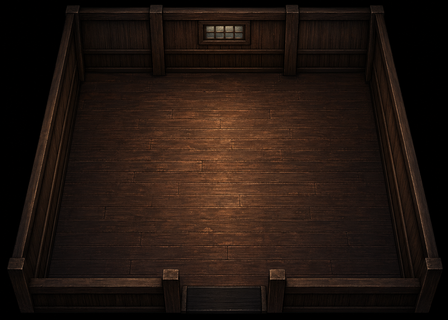
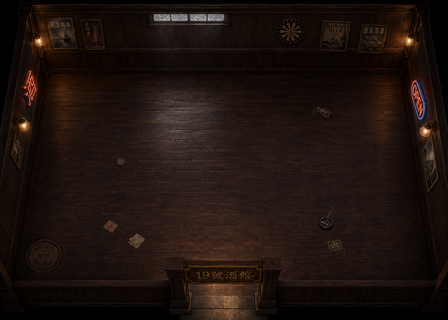
fix(pub): apply new prop/base rule, prop count 14→5 [prompt:036]
Same redo as 033/034/035 applied to pub (19號酒館).

Prop changes:
- 5 large: bar-counter (with bottle rack + taps + glasses), pool-table
  (with balls + cues), jukebox, booth-seat, piano
- Removed: barstool, bottle, glass, ashtray, dartboard, neon-sign,
  whiskey-barrel, coaster, napkin (now in base)

Base contains: '19號酒館' carved sign, dartboard mounted on wall,
'OPEN'/'酒' neon, framed wall photos / pin-ups, scattered floor items,
ashtray, walkable whiskey barrel side-table.

Verified: 5 props residue=0, spawn (7,8)+trigger (7,9) walkable,
typecheck+build pass. Visual reads as a real dim 90s Taiwanese pub.

diff --git a/JOURNAL.md b/JOURNAL.md
@@ -28,6 +28,73 @@
 - **Decisions made**:(若有 deviation,列出 — 由 Claude review 是否認可)
 ```
 
+## 2026-05-01 10:31 — codex-prompt 036 pub-redo-v3
+
+- **STATUS**: ready-for-commit
+- **Commits**: pending Claude
+- **Files changed**:
+  - ~ public/maps/pub-base.png
+  - ~ public/maps/pub-dressed-reference.png
+  - ~ public/maps/pub-layered-preview.png
+  - ~ public/props/pub/bar-counter.png
+  - ~ public/props/pub/pool-table.png
+  - ~ public/props/pub/jukebox.png
+  - ~ public/props/pub/booth-seat.png
+  - ~ public/props/pub/piano.png
+  - - public/props/pub/barstool.png
+  - - public/props/pub/bottle.png
+  - - public/props/pub/glass.png
+  - - public/props/pub/ashtray.png
+  - - public/props/pub/dartboard.png
+  - - public/props/pub/neon-sign.png
+  - - public/props/pub/whiskey-barrel.png
+  - - public/props/pub/coaster.png
+  - - public/props/pub/napkin.png
+  - ~ src/content/maps/pub.json
+  - ~ codex-prompts/036-pub-redo-v3.md
+  - ~ JOURNAL.md
+- **Self-check**:
+  - typecheck: n/a (sandbox; `pnpm typecheck && pnpm build` hit corepack EPERM on `/Users/hubert/.cache/node/corepack/lastKnownGood.json`)
+  - lint: n/a (not requested)
+  - dev server boot: n/a (not requested)
+  - build: n/a (sandbox; same corepack EPERM)
+  - json parse: pass (`python3 -m json.tool src/content/maps/pub.json`)
+  - image assertions: pass (Pillow size/mode, prop residue, edge alpha, deletion list, preview composition, collision, walkability)
+- **Verified output**:
+  1. Step 1 base map:
+     - `public/maps/pub-base.png`: Pillow size `(448, 320)`, mode `RGB`.
+     - view_image: clean HD top-down dim pub shell with dark wood walls and plank floor, bottom entry sign reading `19號酒館`, top-wall high windows, wall dartboard, wall neon signs, framed photos/posters, flat scattered floor items including small papers/coasters, a fallen glass/ashtray-like item, and a low round whiskey barrel marking at lower-left. The bar, pool table, jukebox, booth, and piano zones are empty floor with no large furniture baked in.
+     - Pillow bottom-door scan found bright doorway/sign bbox `x=189..261`, center `225.0px`; using `door_col=7` for trigger and player spawn.
+  2. Step 2 dressed reference:
+     - `public/maps/pub-dressed-reference.png`: Pillow size `(448, 320)`, mode `RGB`.
+     - view_image placement matrix:
+       - bar-counter: upper wall, around `(col 2,row 1)`, long polished bar with bottle rack, taps, and small glasses.
+       - pool-table: center, around `(col 5,row 4)`, green felt table with billiard balls and cues.
+       - jukebox: right wall, around `(col 12,row 5)`, bright arched neon jukebox.
+       - booth-seat: bottom-left, around `(col 1,row 7)`, red leather booth with cushions.
+       - piano: right/bottom-right, around `(col 11,row 7)`, small upright wooden piano with keyboard.
+  3. Steps 3 and 5 prop generation and residue:
+     - `bar-counter.png`: Pillow size `(96, 64)`, content bbox `(3, 12, 93, 51)`, magenta residue `1`, opaque edge pixels `0`; view_image contact sheet shows a dark polished bar with integrated bottle rack, taps, and glasses.
+     - `pool-table.png`: Pillow size `(64, 64)`, content bbox `(3, 14, 61, 49)`, magenta residue `0`, opaque edge pixels `0`; view_image contact sheet shows a green pool table with balls and a cue-like diagonal detail.
+     - `jukebox.png`: Pillow size `(32, 64)`, content bbox `(3, 6, 29, 57)`, magenta residue `0`, opaque edge pixels `0`; view_image contact sheet shows a tall orange/red neon jukebox with arched body.
+     - `booth-seat.png`: Pillow size `(64, 48)`, content bbox `(10, 3, 54, 45)`, magenta residue `2`, opaque edge pixels `0`; view_image contact sheet shows a red leather L-shaped booth seat with integrated cushions.
+     - `piano.png`: Pillow size `(64, 48)`, content bbox `(8, 3, 56, 45)`, magenta residue `1`, opaque edge pixels `0`; view_image contact sheet shows a small wooden upright piano with visible keyboard.
+  4. Step 4 deletion:
+     - `find public/props/pub -maxdepth 1 -type f -name '*.png'` now returns exactly `bar-counter.png`, `booth-seat.png`, `jukebox.png`, `piano.png`, `pool-table.png`.
+     - Explicit absence check passed for `barstool`, `bottle`, `glass`, `ashtray`, `dartboard`, `neon-sign`, `whiskey-barrel`, `coaster`, and `napkin`.
+  5. Step 6 `pub.json`:
+     - `python3 -m json.tool src/content/maps/pub.json` passed.
+     - Parsed key fields: `id=pub`, `baseUrl=/maps/pub-base.png`, props `['bar-counter', 'pool-table', 'jukebox', 'booth-seat', 'piano']`.
+     - Collision matrix is `10` rows x `14` columns. Spawn `(7,8)` and trigger `(7,9)` are both walkable; BFS path from spawn to trigger is `true`.
+  6. Step 7 preview:
+     - `public/maps/pub-layered-preview.png`: Pillow size `(448, 320)`, mode `RGBA`.
+     - view_image: runtime preview reads as a dim Taiwanese pub with the five runtime props over the base: bar at upper-left/top, pool table center, jukebox on right wall, red booth bottom-left, and piano bottom-right. Wall decorations, entry sign, scattered floor items, and barrel remain baked into the base.
+  7. Step 8 typecheck/build:
+     - `pnpm typecheck && pnpm build` did not run to completion because sandbox blocked corepack cache write with `EPERM: operation not permitted, open '/Users/hubert/.cache/node/corepack/lastKnownGood.json'`; deferred to Claude per AGENTS.md.
+- **Notes**: Completed pub redo v3 with only 5 large props; removed 9 old small prop PNGs; composed preview from the updated JSON. Did not modify office/orphanage/obo/set, portraits, or sprites.
+- **BLOCKER**: none
+- **Decisions made**: Used `door_col=7` from the measured bottom entry. Used a 96x64 visual canvas for `bar-counter` so the integrated bottle rack can extend behind the 3x1 collision footprint.
+
 ## 2026-05-01 10:14 — codex-prompt 035 obo-redo-v3
 
 - **STATUS**: ready-for-commit

diff --git a/codex-prompts/036-pub-redo-v3.md b/codex-prompts/036-pub-redo-v3.md
@@ -1,0 +1,135 @@
+# Codex Prompt 036 — pub (19 號酒館) redo v3:套新 prop/base 準則
+
+STATUS: done
+依賴:035 完成
+產出:
+- `public/maps/pub-base.png`(含吧檯瓶架/牆飾/地板/散落物)
+- `public/maps/pub-dressed-reference.png`
+- `public/props/pub/{bar-counter,pool-table,jukebox,booth-seat,piano}.png`(只 5 large)
+- `public/maps/pub-layered-preview.png`
+- `src/content/maps/pub.json`
+
+刪除 9 small:`{barstool,bottle,glass,ashtray,dartboard,neon-sign,whiskey-barrel,coaster,napkin}.png`
+
+不動:office/orphanage/obo/set/portrait/sprite
+
+---
+
+## Pipeline(套 033/034/035 模板)
+
+### Step 1 — base.png
+
+```
+Use $generate2dmap baked_raster to create a CLEAN HD top-down 2D RPG
+small dim Taiwanese pub (19號酒館) BASE map. Layered raster pipeline.
+
+art_style: clean_hd
+size: 448x320 px
+perspective: top-down 45°
+
+This base IS NOT EMPTY — include all decoration but EXCLUDE the 5 high
+props (bar-counter, pool-table, jukebox, booth-seat, piano).
+
+Layout (typical 90s Taiwanese late-night pub):
+- top wall: dark wood paneling with a small high window
+- left/right walls: dark wood with wall hangings
+- bottom wall: entry doorway centered around col 6-7
+- interior floor: dark wood plank, atmospheric
+
+INCLUDE in base:
+- subtle wood plank seams
+- a dartboard mounted on a wall (visual only)
+- a hanging neon sign reading 'OPEN' or '酒' (mounted on wall texture)
+- 2-3 framed wall photos / pin-up posters
+- scattered floor items (a coaster, folded napkin, glass on floor near
+  bar — drawn flat into the base)
+- a small ashtray with cigarette stub on the floor
+- a wooden whiskey barrel side-table (1x1 walkable, drawn flat)
+- subtle smoke ambient feel (warm lighting)
+- '19號酒館' carved sign above entry
+
+EXCLUDE (props):
+- long bar counter
+- central pool table
+- jukebox
+- booth seat
+- piano
+
+Composition: typical pub — bar along top wall (empty around col 1-9
+row 1-2), pool table center (empty col 5-7 rows 4-5), jukebox right
+wall (empty col 12 rows 5-6), booth seat bottom-left (empty col 1-2
+rows 7-8), piano right (empty col 11-12 rows 7-8).
+
+No characters, NPCs, text outside the small wall sign.
+
+Output: public/maps/pub-base.png, 448x320 RGB opaque.
+```
+
+Pillow 量 entry door col → `door_col`。
+
+### Step 2 — dressed reference
+
+```
+Use the image just shown (pub-base.png) as the EXACT base reference.
+
+Add ONLY the 5 missing props:
+- a long polished bar counter (3x1) along top wall, with INTEGRATED bottle
+  rack behind, beer taps on counter, and 2-3 glasses on top
+- a green felt pool table (2x2) in the center with INTEGRATED billiard
+  balls and 2 cues
+- a classic neon-lit jukebox (1x2) against the right wall
+- a red leather booth seat (2x1) in bottom-left corner with INTEGRATED
+  cushions
+- a small wooden upright piano (2x1) along the right wall
+
+Preserve camera/framing/size/walls/doorway, plus all the dartboard +
+neon + photos + floor items + whiskey barrel from base.
+
+Style: clean HD same as base, dim atmospheric pub.
+
+Output: public/maps/pub-dressed-reference.png, 448x320.
+```
+
+### Step 3 — 5 large one-by-one
+
+| prop | spec | cell-size |
+|---|---|---|
+| bar-counter | long polished bar with INTEGRATED bottle rack, beer taps, 2-3 glasses on top, 3x1 | 256 |
+| pool-table | green felt pool table with INTEGRATED billiard balls + 2 cues, 2x2 | 256 |
+| jukebox | classic neon-lit jukebox standing upright, 1x2 | 192 |
+| booth-seat | red leather booth seat with INTEGRATED cushions, 2x1 | 192 |
+| piano | small wooden upright piano, 2x1 | 192 |
+
+各 chroma-key + extract reject-edge-touch。
+
+### Step 4 — 廢檔
+
+```bash
+rm public/props/pub/{barstool,bottle,glass,ashtray,dartboard,neon-sign,whiskey-barrel,coaster,napkin}.png
+```
+
+### Step 5 — residue 5 props < 50
+
+### Step 6 — pub.json props 5 項
+
+trigger.x = `door_col`, trigger.y = 9, eventId = `pub-exit-stub`,spawn `(door_col, 8)` facing up。
+
+### Step 7 — preview
+
+### Step 8 — typecheck/build pass
+
+---
+
+## Acceptance(同 033/034/035)
+
+5 props one-by-one,base 含散落物 + 牆飾 + 招牌 + 地板紋。spawn/trigger walkable。typecheck/build pass。
+
+## Verified output(同前模板)
+
+## 完成後
+
+STATUS: pending → ready-for-commit / blocked。不要 git commit/push。
+
+## 不要做
+
+- 不要動 office/orphanage/obo/set/portrait/sprite
